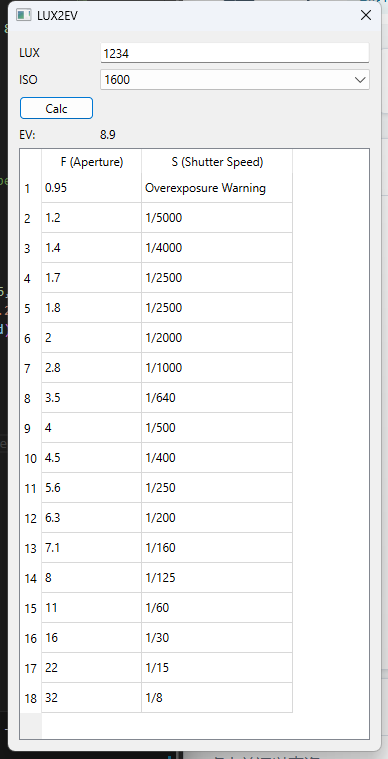
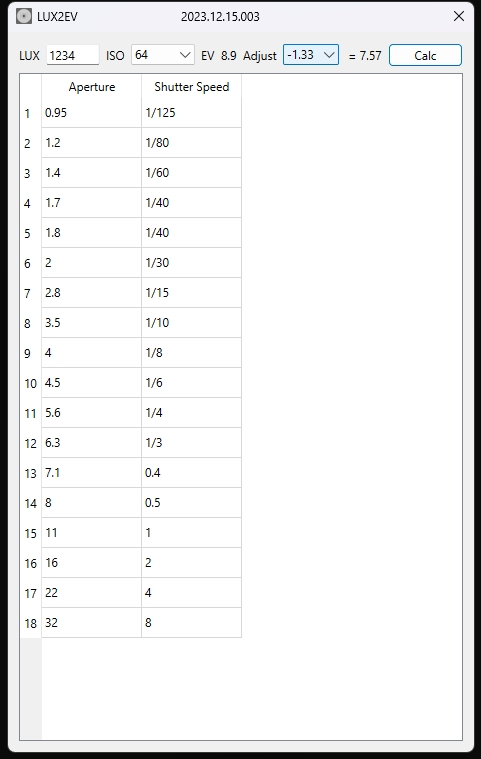
adding EV adjustment

Changed region(s): [[0.0, 0.0, 1.0, 1.0], [0.3711, 0.0, 0.5567, 0.0303]]

diff --git a/lux2ev/__init__.py b/lux2ev/__init__.py
@@ -1,15 +1,23 @@
 import math
+import os
 import re
 import sys
 from PyQt6.QtCore import QSize,QTranslator
-from PyQt6.QtWidgets import QApplication, QComboBox, QMainWindow, QDialog, QGridLayout, QLabel, QLineEdit, QPushButton, QTableWidget, QTableWidgetItem
-
-version = '2023.12.15.002'
+from PyQt6.QtGui import QIcon
+from PyQt6.QtWidgets import QApplication, QComboBox, QMainWindow, QDialog,QHBoxLayout, QVBoxLayout, QGridLayout, QLabel, QLineEdit, QPushButton, QTableWidget, QTableWidgetItem
+# 获取当前文件的绝对路径
+file_path = os.path.abspath(__file__)
+# 获取当前文件所在目录的路径
+dir_path = os.path.dirname(file_path)
+# 更改当前工作目录
+os.chdir(dir_path)
+version = '2023.12.15.003'
 class ExposureCalculator(QDialog):
     
     def __init__(self, parent=None):
         super().__init__(parent)
-        self.setWindowTitle("LUX2EV   " + version)
+        self.setWindowTitle("LUX2EV\t\t\t" + version)
+        self.setWindowIcon(QIcon('lux2ev.ico'))
         self.resize(QSize(320, 720))
         # 创建构件
         self.lux_label = QLabel("LUX")
@@ -20,26 +28,43 @@ class ExposureCalculator(QDialog):
         self.iso_select.addItems([str(iso) for iso in iso_list])
         self.iso_select.setCurrentIndex(0)
         self.iso_label.setBuddy(self.iso_select)
+        self.iso_select.currentIndexChanged.connect(self.calculate_ev)
+        
+        self.ev_label = QLabel("EV")
+        self.ev_label_value = QLabel("  ")
+        self.ev_label_left = QLabel("Adjust")
+        self.ev_label_right = QLabel("  ")
+        ev_srt_list=['-5.0','-4.67','-4.5','-4.33','-4.0','-3.67','-3.5','-3.33','-3.0','-2.67','-2.5','-2.33','-2.0','-1.67','-1.5','-1.33','-1.0','-0.67','-0.5','-0.33','+0.0','+0.33','+0.5','+0.67','+1.0','+1.33','+1.5','+1.67','+2.0','+2.33','+2.5','+2.67','+3.0','+3.33','+3.5','+3.67','+4.0','+4.33','+4.5','+4.67','+5.0']
+        self.ev_select = QComboBox()
+        self.ev_select.addItems([str(iso) for iso in ev_srt_list])
+        self.ev_select.setCurrentIndex(20)
+        self.ev_label_left.setBuddy(self.ev_select)
+        self.ev_select.currentIndexChanged.connect(self.calculate_ev)
 
-        self.ev_label = QLabel("EV:")
-        self.ev_value = QLabel()
         self.calculate_button = QPushButton("Calc")
         self.exposure_table = QTableWidget()
         self.exposure_table.setColumnCount(2)
-        self.exposure_table.setHorizontalHeaderLabels(["F (Aperture)", "S (Shutter Speed)"])
-        
-        # 创建布局
+        self.exposure_table.setHorizontalHeaderLabels(["Aperture", "Shutter Speed"])
+
+        # Create layout
+        horizontal_layout_box = QHBoxLayout() 
+        vertical_layout_box = QVBoxLayout()
         layout = QGridLayout()
-        layout.addWidget(self.lux_label, 0, 0)
-        layout.addWidget(self.lux_edit, 0, 1)
-        layout.addWidget(self.iso_label, 1, 0)
-        layout.addWidget(self.iso_label, 1, 0)
-        layout.addWidget(self.iso_select, 1, 1)
-        layout.addWidget(self.calculate_button, 2, 0)
-        layout.addWidget(self.ev_label, 3, 0)
-        layout.addWidget(self.ev_value, 3, 1)
-        layout.addWidget(self.exposure_table, 4, 0, 1, 2)
-        self.setLayout(layout)
+        horizontal_layout_box.addWidget(self.lux_label)
+        horizontal_layout_box.addWidget(self.lux_edit)
+        horizontal_layout_box.addWidget(self.iso_label)
+        horizontal_layout_box.addWidget(self.iso_select)
+        horizontal_layout_box.addWidget(self.ev_label)
+        horizontal_layout_box.addWidget(self.ev_label_value)
+        horizontal_layout_box.addWidget(self.ev_label_left)
+        horizontal_layout_box.addWidget(self.ev_select)
+        horizontal_layout_box.addWidget(self.ev_label_right)
+        horizontal_layout_box.addWidget(self.calculate_button)
+        vertical_layout_box.addLayout(horizontal_layout_box)
+        vertical_layout_box.addWidget(self.exposure_table)
+
+
+        self.setLayout(vertical_layout_box)
         
         # 链接事件
         self.calculate_button.clicked.connect(self.calculate_ev)
@@ -62,9 +87,11 @@ class ExposureCalculator(QDialog):
             # 保留两位小数
             ev = round(ev * 10) / 10
             # 将计算结果更新到文本框中
-            self.ev_value.setText(str(ev))
+            self.ev_label_value.setText(str(ev))
+            used_ev = ev + float(self.ev_select.currentText()) 
+            self.ev_label_right.setText(' = '+str(used_ev))
             # 调用 populate_table 函数，传入 ev 和 iso 值，计算出曝光组合
-            self.populate_table(ev,iso)
+            self.populate_table(used_ev,iso)
         except ValueError:
             pass
 
